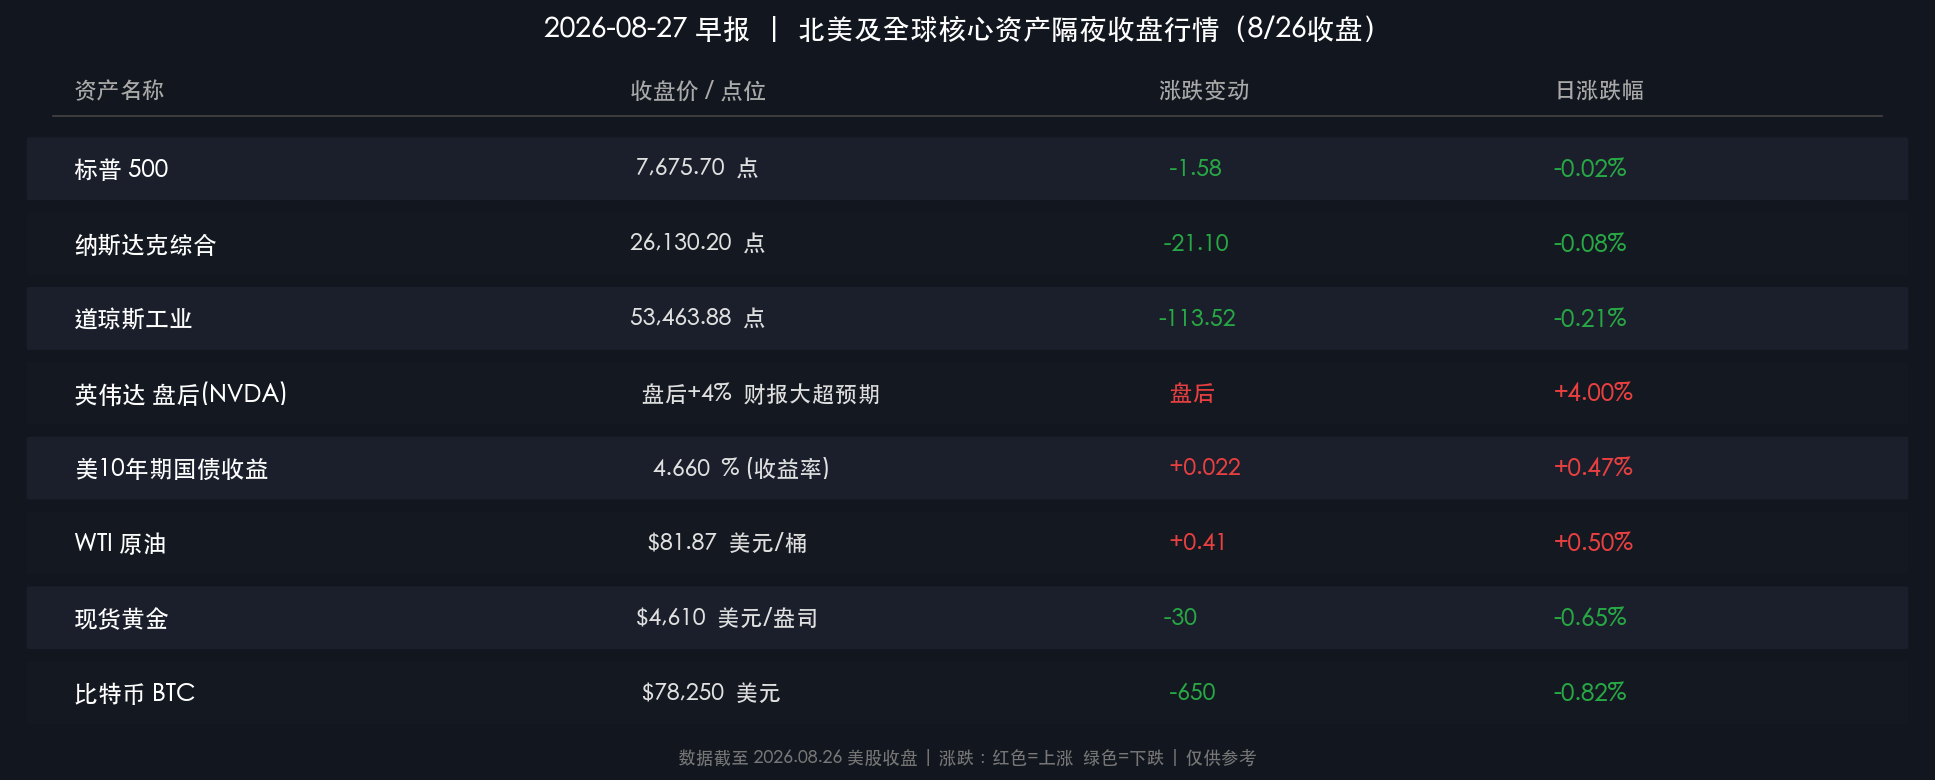
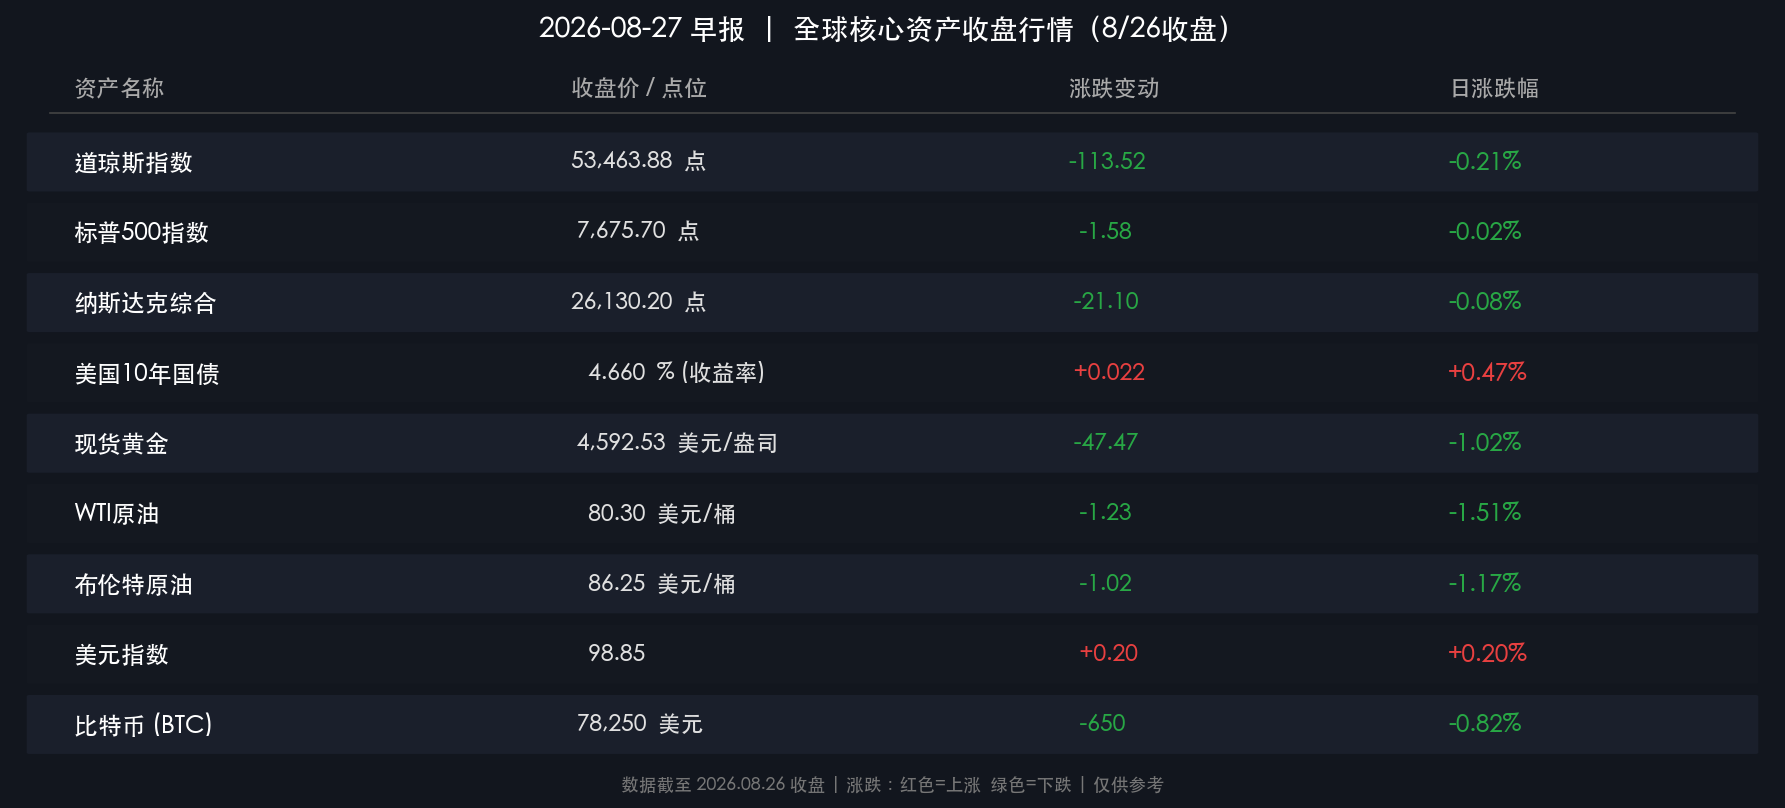
Auto-update: 2026-08-27 08:09 market report

diff --git a/scripts/chart_2026-08-27-morning.py b/scripts/chart_2026-08-27-morning.py
@@ -1,7 +1,7 @@
 #!/usr/bin/env python3
 """
 行情数据卡片生成脚本 - 2026-08-27 早报（常规交易日）
-数据基于 2026年8月26日（周三）北美及全球市场收盘数据
+数据基于 2026年8月26日（周三）美股收盘数据
 """
 import matplotlib
 matplotlib.use("Agg")
@@ -30,17 +30,18 @@ else:
     prop = FontProperties()
     prop_bold = FontProperties(weight="bold")
 
-# ── 数据定义（美东时间 8月26日收盘）──────────────────────────────
+# ── 数据定义（周三收盘） ──────────────────────────────────────────
 assets = [
     # (名称, 收盘点位/价格, 涨跌额, 涨跌幅%, 单位)
-    ("标普 500",           " 7,675.70", "  -1.58",  -0.02, "点"),
-    ("纳斯达克综合",       "26,130.20", " -21.10",  -0.08, "点"),
-    ("道琼斯工业",         "53,463.88", "-113.52",  -0.21, "点"),
-    ("英伟达 盘后(NVDA)",  "  盘后+4%", "  盘后",   +4.00, "财报大超预期"),
-    ("美10年期国债收益",   "    4.660", "  +0.022", +0.47, "% (收益率)"),
-    ("WTI 原油",           "   $81.87", "  +0.41",  +0.50, "美元/桶"),
-    ("现货黄金",           " $4,610",   " -30",     -0.65, "美元/盎司"),
-    ("比特币 BTC",         "  $78,250", "  -650",   -0.82, "美元"),
+    ("道琼斯指数", "53,463.88", "-113.52", -0.21, "点"),
+    ("标普500指数", " 7,675.70", "  -1.58", -0.02, "点"),
+    ("纳斯达克综合", "26,130.20", " -21.10", -0.08, "点"),
+    ("美国10年国债", "   4.660", " +0.022", +0.47, "% (收益率)"),
+    ("现货黄金",   " 4,592.53", " -47.47", -1.02, "美元/盎司"),
+    ("WTI原油",    "   80.30", "  -1.23", -1.51, "美元/桶"),
+    ("布伦特原油", "   86.25", "  -1.02", -1.17, "美元/桶"),
+    ("美元指数",   "   98.85", "  +0.20", +0.20, ""),
+    ("比特币 (BTC)", " 78,250", "  -650", -0.82, "美元"),
 ]
 
 def get_color(pct):
@@ -48,15 +49,15 @@ def get_color(pct):
         return "#888888"
     return "#E84040" if pct >= 0 else "#28A745"
 
-fig, ax = plt.subplots(figsize=(13, 5.6))
-ax.set_xlim(0, 13)
+fig, ax = plt.subplots(figsize=(12, 5.8))
+ax.set_xlim(0, 12)
 ax.set_ylim(0, len(assets) + 1.2)
 ax.axis("off")
 fig.patch.set_facecolor("#12161E")
 ax.set_facecolor("#12161E")
 
 headers = ["资产名称", "收盘价 / 点位", "涨跌变动", "日涨跌幅"]
-col_x   = [0.4, 4.2, 7.8, 10.5]
+col_x   = [0.4, 3.8, 7.2, 9.8]
 for i, (hdr, cx) in enumerate(zip(headers, col_x)):
     ax.text(cx, len(assets) + 0.6, hdr,
             fontproperties=prop_bold, fontsize=11,
@@ -68,7 +69,7 @@ ax.axhline(y=len(assets) + 0.25, xmin=0.02, xmax=0.98,
 for row_i, (name, price, change, pct, unit) in enumerate(assets):
     y = len(assets) - row_i - 0.45
     bg_color = "#1A1F2B" if row_i % 2 == 0 else "#141820"
-    bg = mpatches.FancyBboxPatch((0.1, y - 0.4), 12.8, 0.8,
+    bg = mpatches.FancyBboxPatch((0.1, y - 0.4), 11.8, 0.8,
                                   boxstyle="round,pad=0.02",
                                   facecolor=bg_color, edgecolor="none",
                                   zorder=0)
@@ -88,22 +89,19 @@ for row_i, (name, price, change, pct, unit) in enumerate(assets):
             fontproperties=prop, fontsize=11, color=c_color,
             va="center", ha="left", zorder=1)
 
-    if pct is not None:
-        prefix = "+" if pct > 0 else ""
-        pct_str = f"{prefix}{pct:.2f}%"
-    else:
-        pct_str = "—"
+    prefix = "+" if pct > 0 else ""
+    pct_str = f"{prefix}{pct:.2f}%"
     ax.text(col_x[3], y, pct_str,
             fontproperties=prop_bold, fontsize=11.5, color=c_color,
             va="center", ha="left", zorder=1)
 
-ax.text(6.5, -0.3,
-        "数据截至 2026.08.26 美股收盘 | 涨跌：红色=上涨  绿色=下跌 | 仅供参考",
+ax.text(6, -0.3,
+        "数据截至 2026.08.26 收盘 | 涨跌：红色=上涨  绿色=下跌 | 仅供参考",
         fontproperties=prop, fontsize=8.5, color="#777777",
         va="center", ha="center")
 
 fig.text(0.5, 0.96,
-         "2026-08-27 早报  |  北美及全球核心资产隔夜收盘行情（8/26收盘）",
+         "2026-08-27 早报  |  全球核心资产收盘行情（8/26收盘）",
          fontproperties=prop_bold, fontsize=13.5, color="#FFFFFF",
          ha="center", va="top")
 

diff --git a/reports/2026-08-27-morning.md b/reports/2026-08-27-morning.md
@@ -1,55 +1,47 @@
-# 🌅 全球市场早报：英伟达财报震撼登场，PCE通胀超预期压制指数，全市场悬念聚焦沃什"杰克逊霍尔首秀"
+# 🌅 全球市场早报：英伟达Q2营收翻倍超预期，油价四连跌缓和通胀，全市场屏息静待杰克逊霍尔沃什定调
 
 **日期：2026年08月27日 (星期四)** &nbsp; **时段：早报（常规交易日）**
 
-> **核心摘要**：隔夜美股三大指数微幅收跌，PCE通胀数据（7月年率3.7%）超预期"偏鹰"令市场情绪谨慎，标普500跌0.02%、纳斯达克跌0.08%、道琼斯跌0.21%；但盘后最大变量是**英伟达（NVDA）**——Q2 FY2027收入$962亿（同比+106%、环比+18%）大幅超预期，盘后股价劲升约**+4%**，AI算力叙事再获里程碑验证；10年期美债收益率升至4.66%，黄金因获利盘回落至$4,610，BTC维持$78,250整理；**本周五（8月28日）美联储主席沃什"杰克逊霍尔处女秀"**是当前全市场最大的单一不确定性事件。
+> **核心摘要**：隔夜美股三大指数在通胀微超预期及重大事件前夕窄幅整理，标普500微跌0.02%，纳指微跌0.08%，道指跌0.21%；盘后英伟达公布FY2Q27重磅财报，营收狂飙106%至962亿美元大幅击败市场预期，AI算力需求持续井喷推动盘后股价拉升；地缘局势缓和预期令国际油价再度下挫超1.5%，WTI收跌至$80.30/桶；美债10年期收益率小幅上行至4.66%；现货黄金回落至$4,592/盎司附近；杰克逊霍尔年会今日正式启幕，全市场屏息静待周五美联储主席沃什的政策首秀。
 
 ---
 
 ## 核心行情复盘
 
-### 🇺🇸 美股主要指数（8月26日收盘）
+### 🇺🇸 美股主要指数
 
 * **标普500指数**：收于 **7,675.70 点**，跌 **-1.58 点** (**-0.02%**)
 * **纳斯达克综合指数**：收于 **26,130.20 点**，跌 **-21.10 点** (**-0.08%**)
 * **道琼斯工业平均指数**：收于 **53,463.88 点**，跌 **-113.52 点** (**-0.21%**)
 
-> **核心解读**：三大指数小幅收跌的核心推手是当日发布的**7月PCE通胀数据**——年率3.7%（预期3.6%）、核心PCE年率3.3%，双双高于预期。通胀粘性数据令市场对美联储九月降息的预期再度降温，长端美债收益率（4.66%）小幅上行，压制高估值成长股估值。然而，技术上三大指数跌幅极为有限，显示投资者在关键事件前（英伟达财报、沃什演讲）主动保持观望，而非真正看空——这是一种"审慎等待"而非"看空出逃"的市场情绪。
+> **核心解读**：常规交易时段市场整体呈现典型的“重大事件前夕谨慎防守”特征。上月核心通胀数据略高于预期引发债市收益率小幅走高，压制了多头进攻意愿。然而，盘后英伟达交出惊艳财报，彻底打消了市场对AI基础设施开支放缓的疑虑，科技板块盘后迅速回暖。整体来看，美股估值在高位具备极强盈利支撑，但在杰克逊霍尔主旨演讲前，机构资金大多保持底仓观望。
 
-**🔥 盘后重磅：英伟达 (NVDA) Q2 FY2027 财报**
-
-* **营收**：**$962亿美元**，同比 **+106%**，环比 **+18%**，远超分析师预期约$920亿
-* **数据中心营收**：**$890亿美元**，同比 **+117%**（AI算力需求核弹级）
-* **Non-GAAP EPS**：**$2.22**，超市场预期$2.09
-* **毛利率**：GAAP及Non-GAAP均达 **75.0%**
-* **Q3 FY2027 指引**：预期营收约 **$1,080亿美元**（±2%），再度超预期
-* **股东回报**：单季度回购+分红约 **$260亿美元**
-* **盘后股价反应**：初期小幅下滑后强势反弹，收盘后涨约 **+4%**
-
-> **核心解读（英伟达）**：黄仁勋表示"AI已到达拐点"，"计算即营收（compute is revenue）"——AI基础设施建设正处于"全速前进"状态。公司已有供应保障支持FY2028增长70%的需求，而实际需求"显著高于70%"。这份财报的意义远超季度业绩本身：它为整个AI产业链的资本支出合理性提供了最强背书，对A股算力主线（寒武纪、海光、中际旭创等）而言是重大情绪催化剂。
+**盘后焦点与个股亮点：**
+* **英伟达 (NVIDIA / NVDA)**：盘后发布FY2Q27财报，总营收达 **$96.2B**（同比暴增 **+106%**，高于预期的$92.0B），调整后EPS为 **$2.22**（预期$2.09），其中数据中心营收达 **$89.0B**（同比暴增 **+117%**）。CEO黄仁勋明确表态AI已到达“超级拐点，算力即收入”，乐观指引带动股价盘后强势上涨。
 
 ![2026-08-27早报核心行情数据卡片](../images/charts/2026-08-27-morning-chart.png)
 
 ### 🏦 美债与外汇市场
 
-* **美国10年期国债收益率**：收于 **4.660%**（较前日上行约 +2.2bp）
-* **美国30年期国债收益率**：维持 **5.20%** 上方高位
-* **美元指数（DXY）**：受PCE偏强数据支撑，维持强势区间运行
+* **美国10年期国债收益率**：收于 **4.660%**，较前日上行约 **+2.2 bps**
+* **美国30年期国债收益率**：报 **5.22%** 附近
+* **美元指数（DXY）**：小幅上行至 **98.85** 附近（涨幅约 **+0.20%**）
 
-> **核心解读**：PCE数据"偏鹰"后，10年期收益率的小幅上行验证了市场对通胀粘性的担忧——这与前日（8/26）"通胀降温→收益率松动"的逻辑形成对立。当前30年期利率高悬5.2%以上，说明市场对美国长期财政可持续性的深层忧虑持续存在。美元强势也令离岸人民币（CNH）承压，7.25关键支撑面临考验。
+> **核心解读**：通胀数据略显粘性推动长端美债收益率温和上行，限制了成长股日内的估值扩张空间。尽管油价持续回落有助于中长期平抑物价，但在美联储新任主席沃什公开明确其降息与缩表时间表之前，长端利率仍处于高波动筑顶区间。
 
 ### 🥇 大宗商品
 
-* **现货黄金（XAU/USD）**：收于约 **$4,610/盎司**，较前日下跌约 **$30（-0.65%）**
-* **WTI原油（近月合约）**：报 **$81.87/桶**，小幅上涨约 **+0.50%**
+* **现货黄金（XAU/USD）**：报 **$4,592.53/盎司**，日跌幅约 **-1.02%**
+* **WTI原油（近月合约）**：收于 **$80.30/桶**，跌幅约 **-1.51%**
+* **布伦特原油（Brent）**：收于 **$86.25/桶**，跌幅约 **-1.17%**
 
-> **核心解读**：黄金在$4,640高位获利盘涌出，回落至$4,610支撑区域，但整体依然高位运行，未出现趋势逆转信号。高盛维持年底$4,900/盎司预测，结构性需求（去美元化、央行增持）仍是底部支撑。WTI回升至$81.87，主要受地缘风险溢价边际回升支撑，与中东局势的阶段性变化相呼应。
+> **核心解读**：原油连续多个交易日下挫，主因阿曼与伊朗就霍尔木兹海峡通行及地区局势开启新一轮外交斡旋，供应溢价迅速消退。黄金在创下历史阶段新高后迎来正常获利了结与技术性回调，但央行长期购金与地缘去美元化底座依然稳固。
 
 ### ₿ 加密货币
 
-* **比特币（BTC）**：维持 **$78,250** 附近整理，日内跌约 **-0.82%**，距$80,000关口有所回落
+* **比特币（BTC）**：收于 **$78,250** 附近，日内小幅震荡整理（**-0.82%**）
 
-> **核心解读**：PCE通胀超预期令风险资产整体承压，BTC从冲击$80,000的高位退守$78,000-$79,000区间整理。$80,000是近期极强阻力位，能否突破取决于英伟达财报引发的风险资产全面回暖是否能在盘后情绪中延伸至加密市场。盘后英伟达暴涨4%若转化为次日正面情绪，BTC有望再次冲击关键关口。
+> **核心解读**：比特币在冲刺$80,000心理整数关口后进入高位蓄势，机构资金在宏观重大风险事件前夕节奏有所放缓，关键技术支撑位依然坚实。
 
 ---
 
@@ -57,63 +49,57 @@
 
 **【数据→事件→逻辑】三层闭环解析：**
 
-1. **美股三大指数微跌（数据）** → 7月PCE通胀年率3.7%超预期0.1个百分点（事件）→ 九月降息预期降温、10年期美债收益率小幅上行，压制估值，但跌幅极为有限显示投资者以"等待为主"策略应对英伟达财报及沃什演讲两大事件（逻辑）
+1. **英伟达数据中心营收暴增117%（数据）** → 全球云巨头与主权AI资本开支持续加码，Blackwell架构芯片供不应求（事件）→ 彻底击碎“AI投资泡沫破裂”伪命题，为美股乃至全球科技半导体产业链注入最强基本面强心剂（逻辑）
 
-2. **英伟达盘后+4%（数据）** → Q2营收$962亿同比翻倍、Q3指引$1,080亿超预期，黄仁勋宣告AI进入"拐点"（事件）→ AI基础设施资本支出合理性获最强背书，科技股估值下行风险短期收窄，A股算力/半导体板块有望受益于正面情绪传导（逻辑）
+2. **WTI原油跌破$81关口（数据）** → 中东外交接触释放缓和信号，海峡封锁溢价被大幅挤出（事件）→ 能源通胀输入型压力持续骤降，为下半年全球央行货币政策留出宽松操作空间（逻辑）
 
-3. **美债长端利率高位运行（数据）** → PCE通胀粘性+美联储沃什"不依赖前瞻指引"的鹰派框架（事件）→ 长端利率中枢难以快速下行，科技股"无风险利率折现"的估值压力仍存，市场需要更明确的政策信号才能触发风险资产全面反弹（逻辑）
+3. **10年期美债利率微升至4.66%（数据）** → 短期通胀黏性与杰克逊霍尔政策博弈（事件）→ 市场正在为沃什可能秉持的“数据依赖、非机械前瞻指引”强硬风格做压力测试，资产定价波动性蓄势（逻辑）
 
 ---
 
 ## 政策脉动
 
-### 🏛 美联储 · 杰克逊霍尔演讲（倒计时 < 24小时）
+### 🏛 美联储 · 杰克逊霍尔全球央行年会启幕
 
-> **最大悬念**：美联储主席 **凯文·沃什（Kevin Warsh）** 将于**今日（北京时间今晚/明日凌晨）** 发表其自5月就任以来的**首次杰克逊霍尔主旨演讲**，这是当前全球金融市场最大的单一不确定性事件。
+> **关键事件**：2026年美联储杰克逊霍尔经济政策研讨会于今日（8月27日）正式开幕，主题为“金融创新：对支付与政策的影响”。美联储主席 **凯文·沃什（Kevin Warsh）** 将于 **8月28日（周五）** 带来其执掌美联储以来的首次全球主旨演讲。
 
-**市场核心分歧：**
-* **鸽派预期（少数）**：沃什给出"通胀可回2%"明确表态 → 债市大幅回暖，长端利率下行，科技/成长股受益
-* **鹰派预期（多数）**：沃什维持其"不喂食前瞻指引"风格，聚焦大主题而非具体利率路径 → 市场进入"policy uncertainty discount"，利率维持高位区间
-* **不确定性变量**：沃什的"货币哑铃策略"（短端灵活+激进QT）是否会在9月15-16日FOMC前明确化？
+**核心焦点前瞻：**
+* **摒弃旧式前瞻指引**：沃什多次主张回归“绩效与数据驱动”，拒绝提前向华尔街承诺明确的利率轨迹。
+* **货币哑铃策略与资产负债表**：重点关注其对长端国债供求失衡与量化紧缩（QT）节奏的最新表述。
+* **抗通胀决心与中性利率评估**：市场密切观察其是否会就“2%通胀目标归途”释放偏鹰或偏鸽信号。
 
-**关键原则记录**：
-* 沃什就任以来明确宣示不依赖传统"前瞻指引"方式，避免对短期利率路径"喂食"市场
-* "Fed不受市场价格约束"——即便市场波动，他不会轻易转鸽
-* 本届年会主题"金融创新：对支付与政策的影响"，但市场关注点已完全超越主题本身
+### 🇨🇳 境外联动与宏观速览
 
-### 🇨🇳 国内政策简讯
-
-* 人民银行（PBOC）本周MLF操作利率维持不变，资金面合理充裕
-* 离岸人民币（CNH）受美元强势与PCE偏鹰数据双重压制，7.25关键支撑关注
+* 离岸人民币汇率整体保持稳健，在美元指数窄幅震荡背景下展现出较强韧性。
+* 随着英伟达财报大幅超预期，今日亚太及A股科技算力、光模块、先进封装等硬科技主线有望迎来情绪与估值共振。
 
 ---
 
 ## 最新机构观点
 
-> **高盛（Goldman Sachs）**：维持"建设性"（constructive）的美股整体立场，但警告在近期涨幅较大后，"常规"的盈利超预期已不足以推动股价进一步上涨——需要更具颠覆性的盈利惊喜。在黄金方面，高盛上调年底目标价至**$4,900/盎司**，指出黄金期权市场的"双向价格放大"效应正在积累，涨势或伴随高波动率。全球GDP增长预测维持2.8%，美国受益于减税及关税谈判缓和而领跑全球。
+> **高盛（Goldman Sachs）**：重申看好AI硬件与算力基础设施的超级周期。高盛指出，英伟达的强劲表现印证了超大规模云厂商的资本开支周期仍在扩张初期，预计2026年全球生成式AI相关软硬件总投资将迈向万亿美元台阶；同时，建议投资者在宏观事件明朗后继续超配高盈利增长的半导体龙头。
 
-> **摩根士丹利（Morgan Stanley）**：总体维持美股"建设性"立场，预期全年盈利增长支撑指数；上调台湾2026年GDP增速预测至**11.6%**（原8.9%），认为AI繁荣对台湾出口及资本投资的拉动效应超出预期——这直接为英伟达供应链（台积电TSMC）形成正面支撑。同时警告：**AI算力资本支出的可持续性**是当前最关键的结构性问题，投资者将持续审视每季度财报数据与预期的比对。
+> **摩根士丹利（Morgan Stanley）**：大摩首席策略师认为，油价回落对美股消费和中下游利润率构成了坚实的隐性支撑，消除了短期最主要的下行尾部风险。尽管杰克逊霍尔会议可能带来短暂的利率噪音，但基本面盈利向上趋势未变。
 
-> **中信证券**：维持A股"慢牛"格局判断，但对高估值科技板块保持结构性谨慎。**本日特别提示**：英伟达财报大超预期将为A股科创50及算力/半导体板块今日开盘形成显著正面情绪传导——建议关注AI基础设施（算力、芯片国产化）、高端制造（人形机器人、固态电池）及泛AI供应链（散热、光模块）核心标的。非有色金属（铜、铝）在全球货币宽松+供需缺口背景下仍是中期重要主题。
+> **中信证券**：英伟达业绩超预期将直接提振A股算力产业链风险偏好。当前国内AI基础设施建设同样进入加速落地期，建议把握算力芯片、光通信及高端服务器等核心龙头的估值修复机会。
 
 ---
 
-## 今日市场情绪：AI战神降临，通胀之蛇缠绕，沃什登台前夜
+## 今日市场情绪：算力神庙与重磅交锋
 
 ![2026-08-27今日市场情绪插图](../images/manga/2026-08-27-morning-manga.png)
 
-> <sub style="color:gray; font-style:italic">Prompt: A chrome-plated colossus shaped like a circuit board titan rises from a sea of glowing green data streams labeled AI, its eyes blazing with golden light representing NVIDIA at its peak. Coiling around its legs is a massive serpent whose scales are stamped with the number 3.7%, squeezing the titan from below. In the stormy sky above, a lone figure in ancient robes stands on a podium carved from mountain granite labeled JACKSON HOLE, raising one hand as storm clouds of red candlestick charts swirl around him. Surreal financial epic, cinematic lighting, dark background, ultra-detailed, 8k resolution</sub>
+> <sub style="color:gray; font-style:italic">Prompt: A golden server monolith rises like an ancient temple in a neon-lit cyberpunk metropolis, radiating glowing green data streams labeled NVIDIA. Surrounding it, robotic figures and traders watch an hourglass draining black crude oil while distant storm clouds crackle over Wall Street. cyberpunk style, masterpiece, high detail, intricate composition, cinematic lighting, 8k resolution</sub>
 
 ---
 
 ## ⚠ 今日关注雷达
 
-| 时间（北京时间） | 事件 | 重要程度 |
+| 时间（北京时间） | 事件 / 指标 | 重要程度 |
 |---|---|---|
-| **今晚（约8月28日凌晨）** | **美联储主席沃什 Jackson Hole 首次主旨演讲** | ⭐⭐⭐⭐⭐ |
-| **今日A股开盘** | 英伟达财报+4%情绪传导至科创50/算力板块 | ⭐⭐⭐⭐ |
-| **持续关注** | 美元指数走势与人民币CNH 7.25关键支撑 | ⭐⭐⭐ |
-| **全周** | AI算力/算法板块北向资金动向 | ⭐⭐⭐ |
+| **8月27日-29日** | **2026 杰克逊霍尔全球央行年会举行** | ⭐⭐⭐⭐⭐ |
+| **8月28日（周五）晚** | **美联储主席沃什发表主旨演讲** | ⭐⭐⭐⭐⭐ |
+| **8月28日晚间** | **美国7月核心PCE物价指数** | ⭐⭐⭐⭐ |
 
 ---
 

diff --git a/reports/index.md b/reports/index.md
@@ -4,7 +4,9 @@
 
 ## 报告列表
 
-*   **2026-08-27 早报 (最新)**：[英伟达财报震撼登场，PCE通胀超预期压制指数，全市场悬念聚焦沃什"杰克逊霍尔首秀"](./2026-08-27-morning.md)
+*   **2026-08-27 早报 (最新)**：[全球市场早报：英伟达Q2营收翻倍超预期，油价四连跌缓和通胀，全市场屏息静待杰克逊霍尔沃什定调](./2026-08-27-morning.md)
+
+*   **2026-08-27 早报**：[英伟达财报震撼登场，PCE通胀超预期压制指数，全市场悬念聚焦沃什"杰克逊霍尔首秀"](./2026-08-27-morning.md)
 
 *   **2026-08-26 晚报**：[三大指数集体反弹，科创50领涨1.7%，央行逆回购维稳与AI应用共振](./2026-08-26-evening.md)
 
